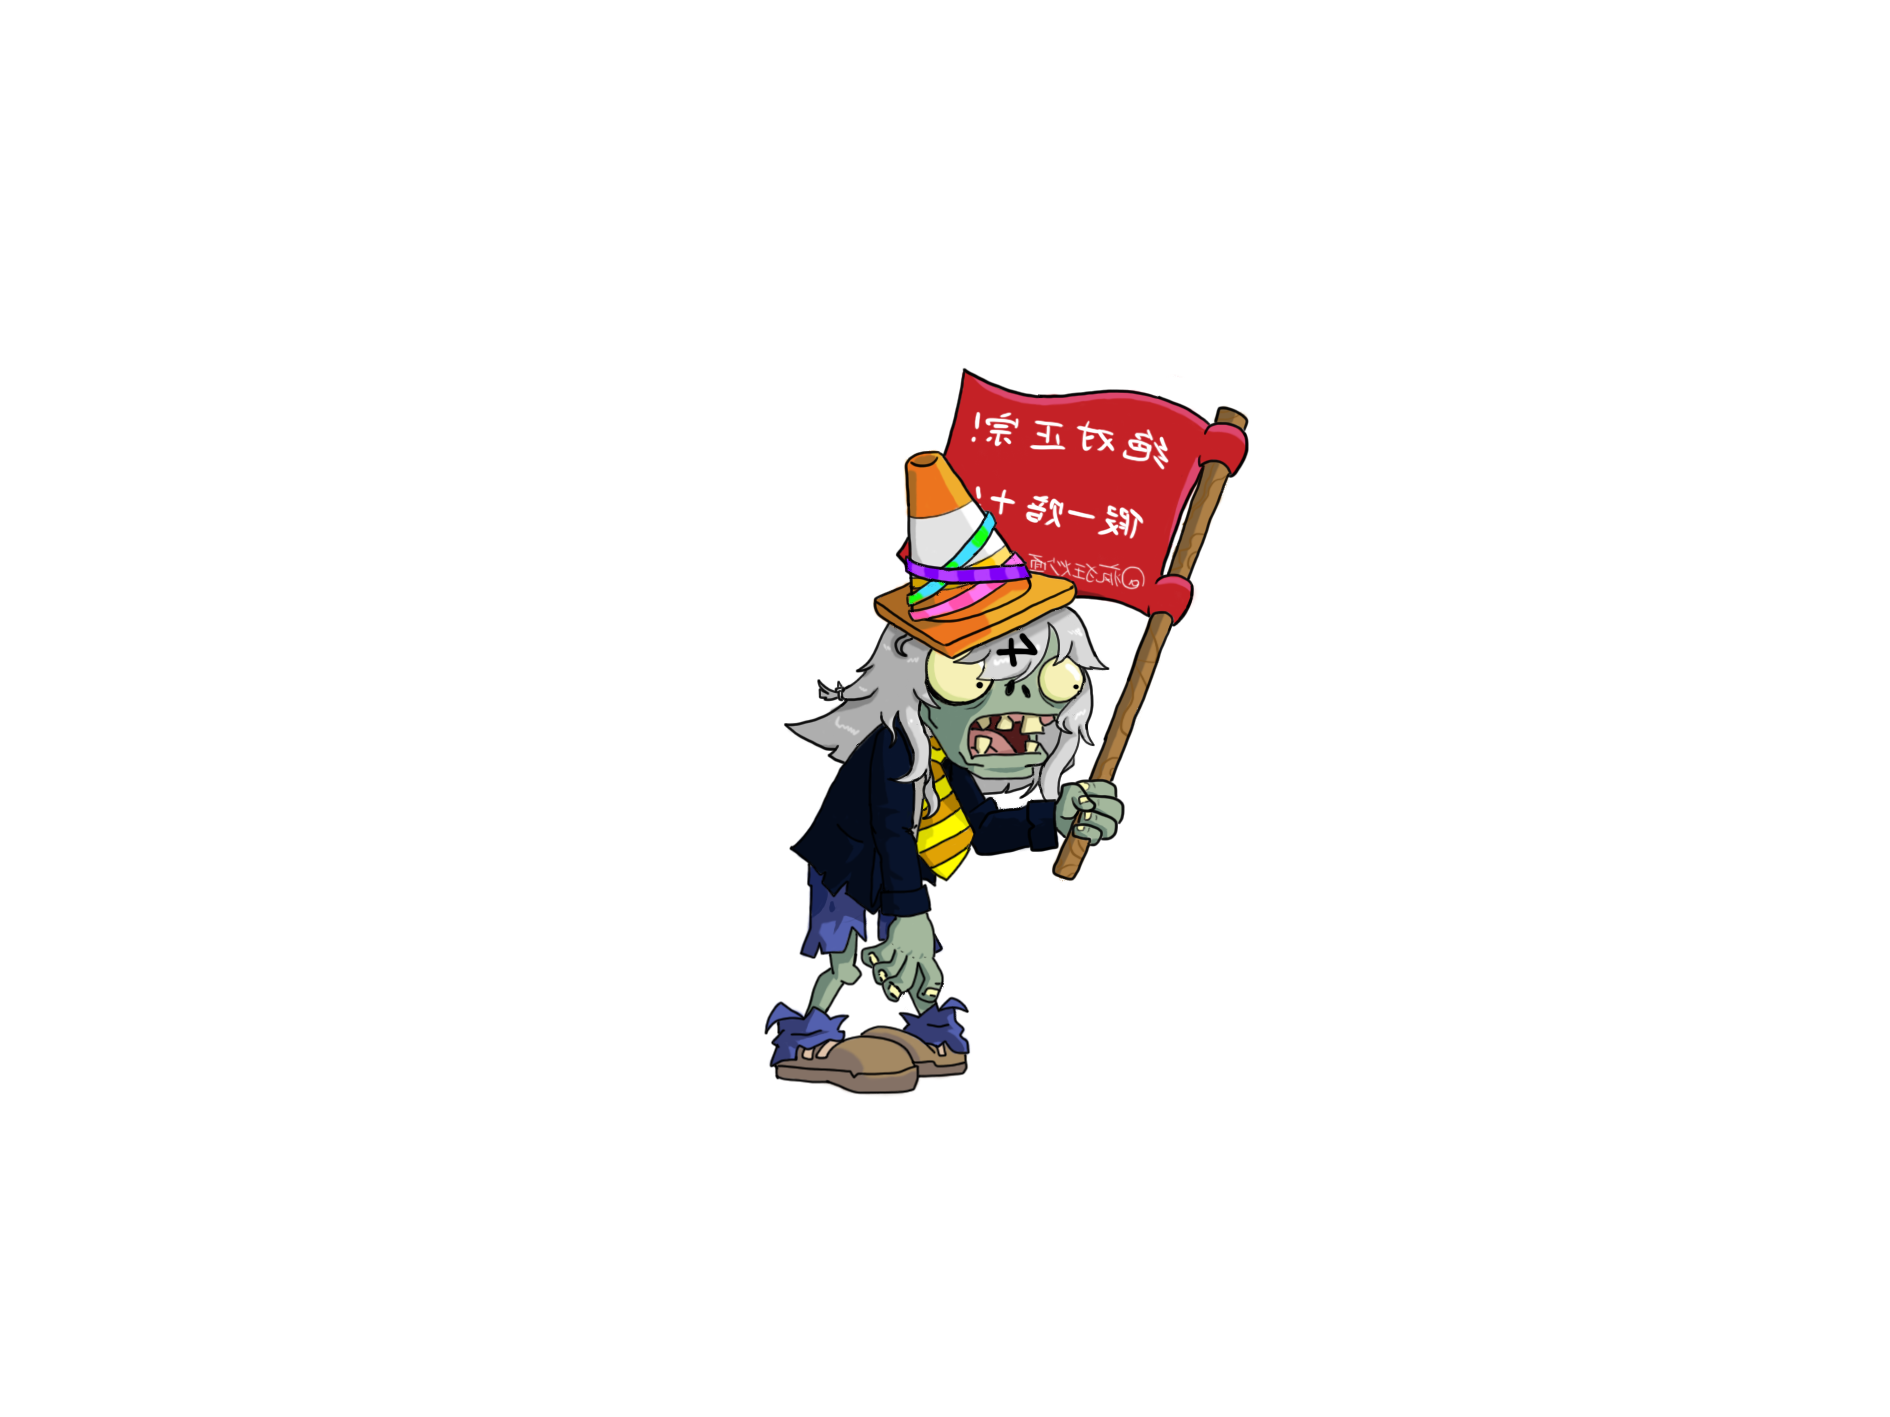
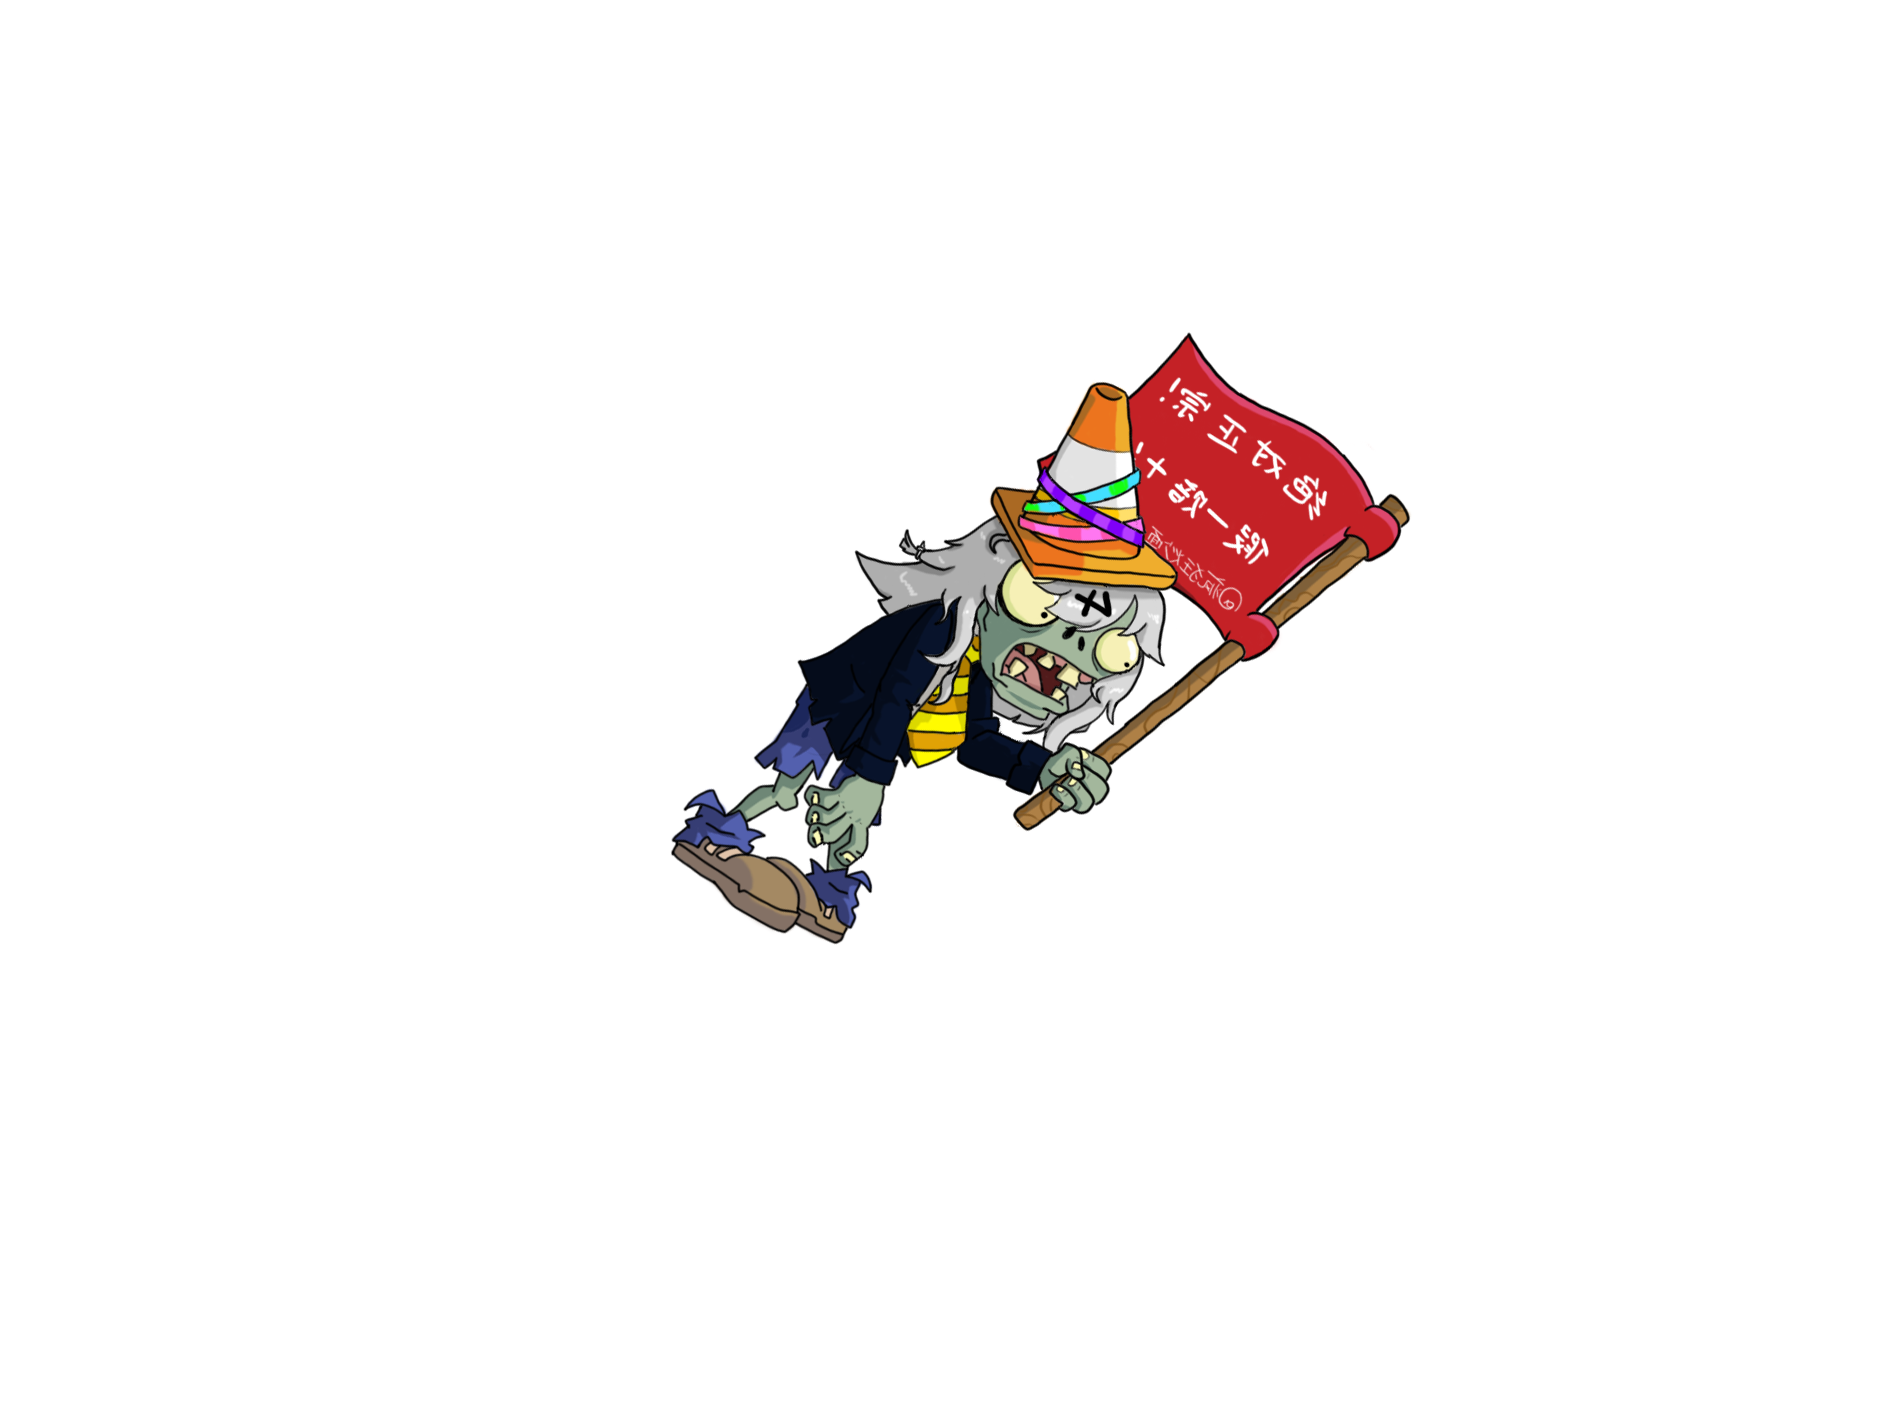
Sold out part2

Changed region(s): [[0.3434, 0.2174, 0.7492, 0.7763]]

diff --git a/NoChowShop.py b/NoChowShop.py
@@ -17,11 +17,12 @@ class ChowShop:
         boost_raw=pygame.image.load(os.path.join(self.assets,"boost.png")).convert_alpha()
         bless_raw=pygame.image.load(os.path.join(self.assets,"blesss.png")).convert_alpha()
         npc_raw=pygame.image.load(os.path.join(self.assets,"NPC.png")).convert_alpha()
-        sold_out_npc_raw=pygame.image.load(os.path.join(self.assets,"Sold_out_NPC.png")).convert_alpha()
+        sold_out_npc_raw=pygame.image.load(os.path.join(self.assets,"Sold_out_inverted.png")).convert_alpha()
         sold_out_raw=pygame.image.load(os.path.join(self.assets,"Sold out.png")).convert_alpha()
         self.bg_image=pygame.image.load(os.path.join(self.assets,"bg.png")).convert()
         self.npc_image=pygame.transform.scale(npc_raw, npc_size)
-        self.sold_out_npc_image=pygame.transform.scale(sold_out_npc_raw,npc_size)
+        tmp=pygame.transform.scale(sold_out_npc_raw,npc_size)
+        self.sold_out_npc_image = pygame.transform.rotate(tmp, -30)
         self.sold_out_image=pygame.transform.scale(sold_out_raw,sold_out_size)
         self.bomb_icon=pygame.transform.scale(bomb_raw, icon_size)
         self.boost_icon=pygame.transform.scale(boost_raw, icon_size)
@@ -85,7 +86,7 @@ class ChowShop:
         npc_rect = self.npc_image.get_rect(topleft=npc_pos)
         self.window.blit(self.npc_image, npc_rect)
         if self.bless_sold_start_time is not None:
-            sold_npc_pos=(-100,180)
+            sold_npc_pos=(-380,150)
             self.window.blit(self.sold_out_npc_image,sold_npc_pos)
         title_surf = self.title_font.render("CRAZY CHOW'S TWIDDYDINKIES", True, (0,0,177))
         self.window.blit(title_surf, (5,20))
@@ -103,7 +104,7 @@ class ChowShop:
         txt = f"Up – Bless (50) {'✔' if items[2].count>0 else ''}"
         surf = self.dialoge_font.render(txt, True, (0,0,0))
         self.window.blit(surf, (5,100))
-        if self.bless_sold_start_time is not None and not self.sold_out_drawn:
+        if self.bless_sold_start_time is not None:
             elapsed=pygame.time.get_ticks()-self.bless_sold_start_time
             if elapsed>=3000:
                 self.window.blit(self.sold_out_image,self.BLESS_POS)
